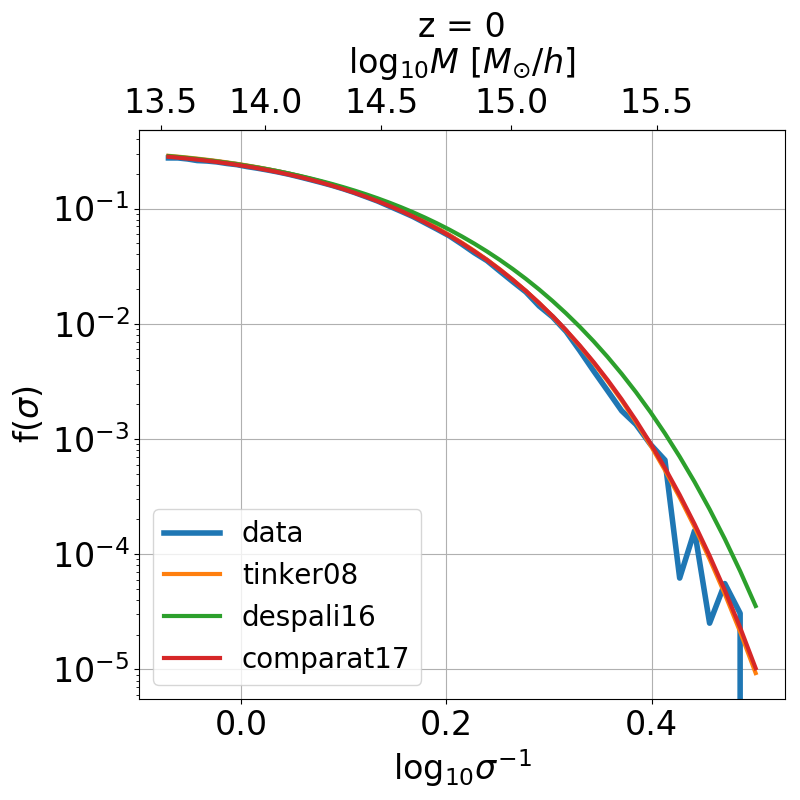
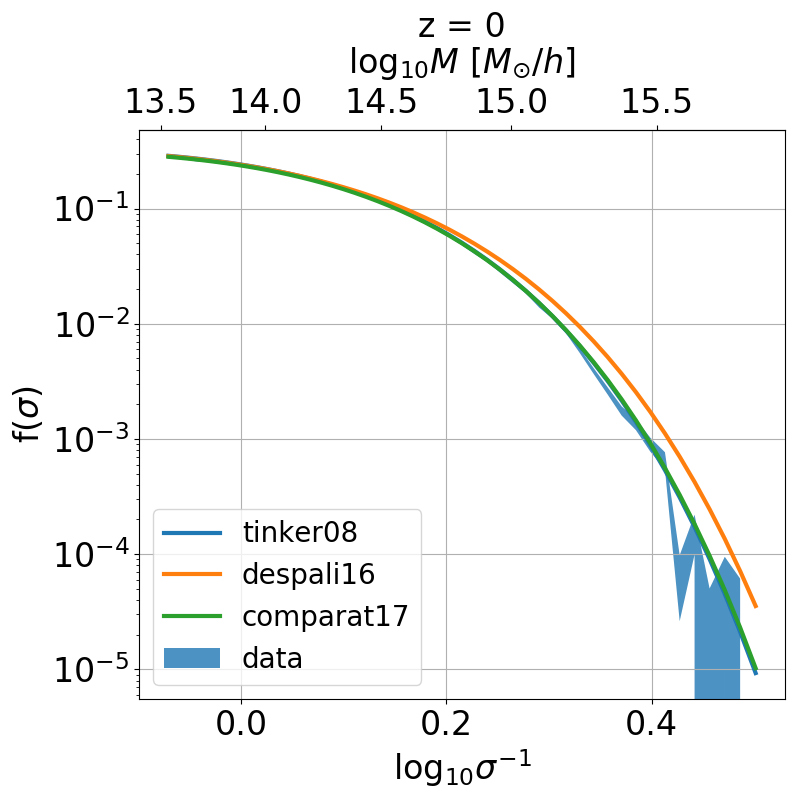
adding shaded area with error in the example code

diff --git a/compute_MF_example.py b/compute_MF_example.py
@@ -52,6 +52,9 @@ dn_dlnM = cts/Vol/dlnM     #(Mpc/h)^-3
 
 f = dn_dlnM*mass_bins/rho_m/cosmo.sigma(R,z=z_snap,derivative=True)*(-3.) # (Mpc/h)^-3 * Msun/h * (Msun h^2/Mpc^3)^-1 = number
 
+#compute the error: poisson count 1/sqrt(N) and cosmic variance (~2% in HMD)
+ferr = np.sqrt(1/cts + 0.02**2)*f
+
 #add three models for comparison
 mf_tinker = mf.massFunction(sigma,q_in='sigma', z=z_snap, mdef = 'vir', model = 'tinker08', q_out = 'f')
 mf_despali = mf.massFunction(sigma,q_in='sigma', z=z_snap, mdef = 'vir', model = 'despali16', q_out = 'f')
@@ -62,7 +65,7 @@ outf = os.path.join(mydir,'figures','HMD_z_%.3f_MF.png'%(z_snap))
 
 fig,ax = plt.subplots(figsize=(8,8))
 x = np.log10(1/sigma)
-ax.plot(x,f,label='data',lw=4)
+ax.fill_between(x,f-ferr,f+ferr,label='data',alpha=0.8)
 ax.plot(x,mf_tinker,label='tinker08',lw=3)
 ax.plot(x,mf_despali,label='despali16',lw=3)
 ax.plot(x,mf_comparat,label='comparat17',lw=3)
